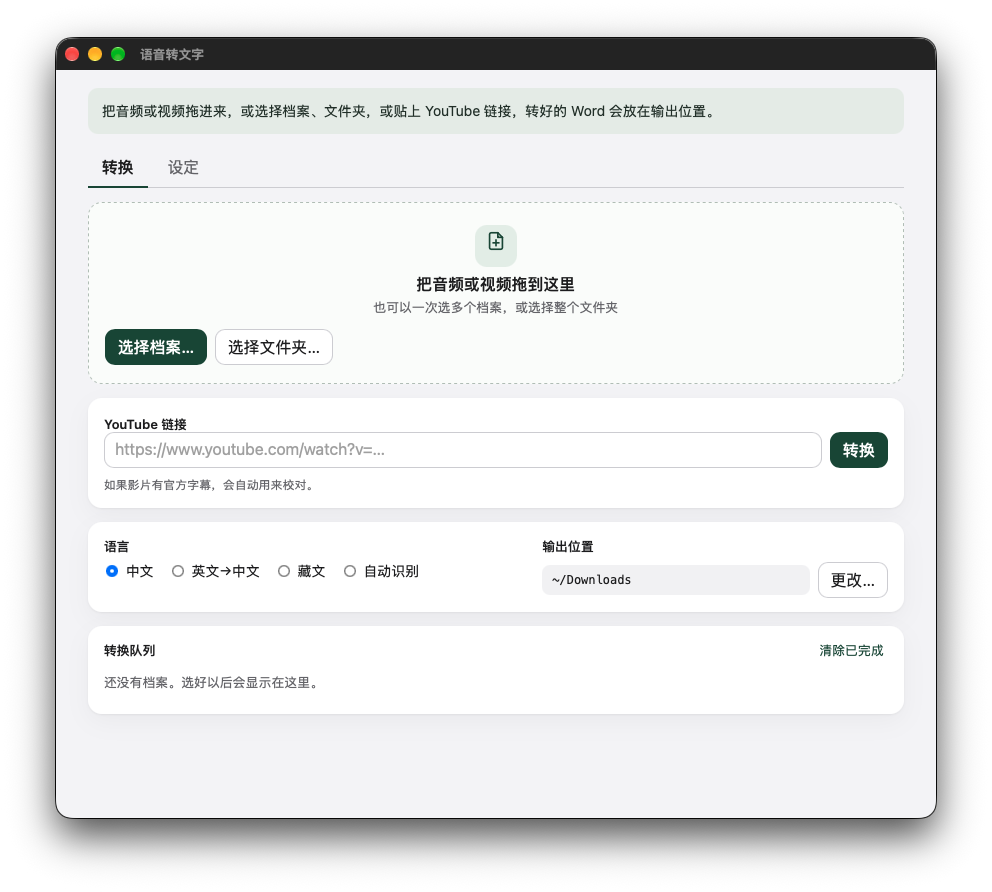
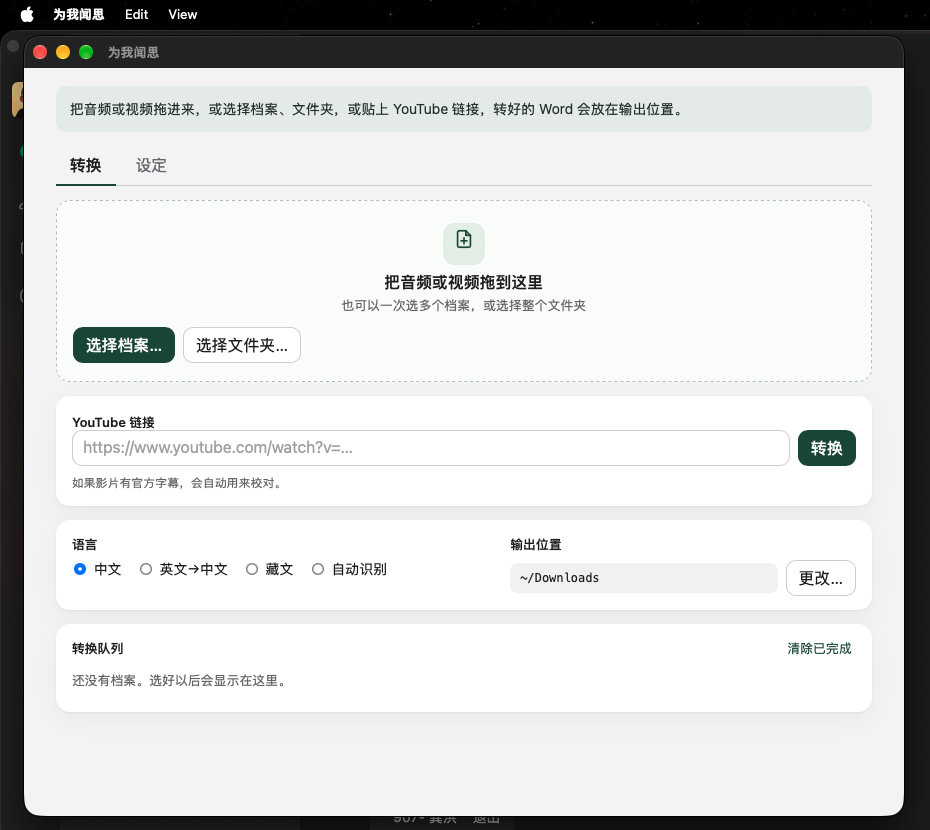
Rename the Mac app to 为我闻思 and fix the Python menu bar name
The app bundle, window title, and menu bar now use 为我闻思
(Wei Wo Wen Si). A small native launcher hosts the GUI so macOS
no longer shows Python. The GitHub repository remains speech2docx.
Desktop drop folders keep the name 语音转文字.

diff --git a/ui/index.html b/ui/index.html
@@ -3,7 +3,7 @@
 <head>
   <meta charset="utf-8" />
   <meta name="viewport" content="width=device-width, initial-scale=1" />
-  <title>语音转文字</title>
+  <title>为我闻思</title>
   <link rel="stylesheet" href="styles.css" />
 </head>
 <body>

diff --git a/src/settings.py b/src/settings.py
@@ -65,7 +65,7 @@ def _prompt_api_key(provider: str) -> Optional[str]:
     label = PROVIDER_LABELS[provider]
     script = f'''
 try
-  set r to display dialog "请输入 {label} 的 API 金钥。金钥只保存在「钥匙圈」，不会写入文件或日志。" default answer "" with hidden answer buttons {{"取消", "保存"}} default button "保存" with title "语音转文字"
+  set r to display dialog "请输入 {label} 的 API 金钥。金钥只保存在「钥匙圈」，不会写入文件或日志。" default answer "" with hidden answer buttons {{"取消", "保存"}} default button "保存" with title "为我闻思"
   if button returned of r is "保存" then return text returned of r
   return ""
 on error
@@ -97,14 +97,14 @@ def _offer_login_if_needed(provider: str) -> None:
     status = cli_login_status().get(provider) or {}
     if status.get("logged_in"):
         _osascript(f'''
-display dialog "{PROVIDER_LABELS[provider]} 已经登录，可以直接用来修饰文字。" buttons {{"好"}} default button "好" with title "语音转文字"
+display dialog "{PROVIDER_LABELS[provider]} 已经登录，可以直接用来修饰文字。" buttons {{"好"}} default button "好" with title "为我闻思"
 ''')
         return
     msg = f"{PROVIDER_LABELS[provider]} 的命令行工具尚未登录"
     if not status.get("installed"):
         msg = f"还没有安装 {PROVIDER_LABELS[provider]} 的命令行工具。可以在打开的终端里安装并登录。"
     script = f'''
-set r to display dialog "{msg}要现在打开终端，由你自己登录吗？" buttons {{"以后再说", "打开终端"}} default button "打开终端" with title "语音转文字"
+set r to display dialog "{msg}要现在打开终端，由你自己登录吗？" buttons {{"以后再说", "打开终端"}} default button "打开终端" with title "为我闻思"
 return button returned of r
 '''
     try:
@@ -157,7 +157,7 @@ def _toggle_raw_appendix() -> None:
     default_btn = "开启附录" if on else "关闭附录"
     script = (
         "set r to display dialog \"是否在 Word 文档末尾附上未修饰的原始转录（「附录：原始转录」），方便对照识别准确度？\" "
-        "buttons {\"关闭附录\", \"开启附录\"} default button \"%s\" with title \"语音转文字\"\n"
+        "buttons {\"关闭附录\", \"开启附录\"} default button \"%s\" with title \"为我闻思\"\n"
         "return button returned of r\n" % default_btn
     )
     try:
@@ -185,19 +185,19 @@ POSIX path of theFile
     from pathlib import Path
     chosen = Path(path).expanduser()
     if not chosen.is_file():
-        _osascript('display dialog "找不到所选文件。" buttons {"好"} default button "好" with title "语音转文字"')
+        _osascript('display dialog "找不到所选文件。" buttons {"好"} default button "好" with title "为我闻思"')
         return
     cfg = load_config()
     cfg["template_path"] = str(chosen)
     save_config(cfg)
-    _osascript(f'display dialog "已改用模板：{chosen.name}" buttons {{"好"}} default button "好" with title "语音转文字"')
+    _osascript(f'display dialog "已改用模板：{chosen.name}" buttons {{"好"}} default button "好" with title "为我闻思"')
 
 
 def _reset_template() -> None:
     cfg = load_config()
     cfg["template_path"] = ""
     save_config(cfg)
-    _osascript('display dialog "已恢复为内置默认版式。" buttons {"好"} default button "好" with title "语音转文字"')
+    _osascript('display dialog "已恢复为内置默认版式。" buttons {"好"} default button "好" with title "为我闻思"')
 
 
 
@@ -207,7 +207,7 @@ def _toggle_english_output() -> None:
     default_btn = "中英对照" if current == "bilingual" else "仅中文"
     script = (
         "set r to display dialog \"英文录音译成中文后，Word 要怎么排？\" "
-        "buttons {\"仅中文\", \"中英对照\"} default button \"%s\" with title \"语音转文字\"\n"
+        "buttons {\"仅中文\", \"中英对照\"} default button \"%s\" with title \"为我闻思\"\n"
         "return button returned of r\n" % default_btn
     )
     try:
@@ -227,7 +227,7 @@ def run_settings_menu() -> None:
         en_state = "中英对照" if cfg.get("english_output", "bilingual") == "bilingual" else "仅中文"
         script = f'''
 set opts to {{"查看当前设定", "选择修饰模型", "设置 API 金钥", "登录云端帐号", "编辑佛教词库", "附录：原始转录（目前：{appendix_state}）", "选择 Word 模板", "恢复默认模板", "英文输出（目前：{en_state}）", "完成"}}
-set picked to choose from list opts with prompt "语音转文字 · 设定" OK button name "确定" cancel button name "完成"
+set picked to choose from list opts with prompt "为我闻思 · 设定" OK button name "确定" cancel button name "完成"
 if picked is false then return "完成"
 return item 1 of picked
 '''

diff --git a/src/gui.py b/src/gui.py
@@ -1,5 +1,5 @@
 #!/usr/bin/env python3
-"""Desktop window for 语音转文字. Click the Dock icon to open it."""
+"""Desktop window for 为我闻思. Click the Dock icon to open it."""
 
 from __future__ import annotations
 
@@ -37,6 +37,46 @@ from transcribe import _transcribe_arg
 
 IPC_HOST = "127.0.0.1"
 IPC_PORT = 17834
+APP_NAME = "为我闻思"
+
+
+def _adopt_app_identity() -> None:
+    """Make the menu bar and process name 为我闻思, even if Cocoa started as Python."""
+    try:
+        from Foundation import NSBundle, NSProcessInfo
+
+        info = NSBundle.mainBundle().infoDictionary()
+        if info is not None:
+            info["CFBundleName"] = APP_NAME
+            info["CFBundleDisplayName"] = APP_NAME
+        NSProcessInfo.processInfo().setProcessName_(APP_NAME)
+    except Exception:
+        pass
+
+
+def _running_inside_app() -> bool:
+    parts = " ".join([sys.executable or "", *sys.argv])
+    return "为我闻思.app" in parts or "语音转文字.app" in parts
+
+
+def _apply_app_icon() -> None:
+    try:
+        from AppKit import NSApplication, NSImage
+
+        candidates = [
+            Path(sys.executable).resolve().parents[1] / "Resources" / "AppIcon.icns",
+            Path("/Applications/为我闻思.app/Contents/Resources/AppIcon.icns"),
+            Path.home() / "Applications/为我闻思.app/Contents/Resources/AppIcon.icns",
+        ]
+        for path in candidates:
+            if path.is_file():
+                img = NSImage.alloc().initWithContentsOfFile_(str(path))
+                if img:
+                    NSApplication.sharedApplication().setApplicationIconImage_(img)
+                    return
+    except Exception:
+        pass
+
 
 LANG_LABELS = {
     "zh": "中文",
@@ -504,14 +544,13 @@ end tell
 
 
 def _hide_extra_dock_icon() -> None:
-    """Keep the official .app icon in the Dock; hide a second Python icon."""
+    """If we are not running from the official .app, hide a second Python Dock icon."""
     try:
         from AppKit import NSApplication, NSApplicationActivationPolicyAccessory
 
-        app = NSApplication.sharedApplication()
-        exe = sys.argv[0] if sys.argv else ""
-        if "语音转文字.app" in exe:
+        if _running_inside_app():
             return
+        app = NSApplication.sharedApplication()
         app.setActivationPolicy_(NSApplicationActivationPolicyAccessory)
     except Exception:
         pass
@@ -661,6 +700,7 @@ def main(argv: Optional[list[str]] = None) -> int:
             items.append({"kind": "url", "source": url, "name": "YouTube 视频"})
         STATE.add_jobs(items)
 
+    _adopt_app_identity()
     import webview
 
     api = JsApi()
@@ -668,7 +708,7 @@ def main(argv: Optional[list[str]] = None) -> int:
     if not index.is_file():
         raise SystemExit(f"找不到界面文件：{index}")
     window = webview.create_window(
-        "语音转文字",
+        APP_NAME,
         url=index.as_uri(),
         js_api=api,
         width=880,
@@ -679,6 +719,8 @@ def main(argv: Optional[list[str]] = None) -> int:
     STATE.window = window
     window.events.loaded += lambda: _bind_drop_target(window)
     def on_shown():
+        _adopt_app_identity()
+        _apply_app_icon()
         _focus_window()
         _hide_extra_dock_icon()
 

diff --git a/scripts/wensi_launcher.c b/scripts/wensi_launcher.c
@@ -1,0 +1,86 @@
+/* Native entry point so the process belongs to 为我闻思.app, not Python.app. */
+#include <Python.h>
+#include <limits.h>
+#include <stdio.h>
+#include <stdlib.h>
+#include <string.h>
+
+#ifndef PATH_MAX
+#define PATH_MAX 4096
+#endif
+
+static int add_venv_site(void) {
+    const char *home = getenv("ASR_HOME");
+    if (home == NULL || home[0] == '\0') {
+        return 0;
+    }
+    char cmd[PATH_MAX + 256];
+    int n = snprintf(
+        cmd,
+        sizeof(cmd),
+        "import site, os\n"
+        "home = os.environ.get('ASR_HOME', '')\n"
+        "path = os.path.join(home, '.venv', 'lib', 'python%d.%d', 'site-packages')\n"
+        "if os.path.isdir(path):\n"
+        "    site.addsitedir(path)\n",
+        PY_MAJOR_VERSION,
+        PY_MINOR_VERSION);
+    if (n < 0 || (size_t)n >= sizeof(cmd)) {
+        return -1;
+    }
+    return PyRun_SimpleString(cmd);
+}
+
+int main(int argc, char **argv) {
+    if (argc < 2) {
+        fprintf(stderr, "usage: %s script.py [args...]\n", argv[0]);
+        return 2;
+    }
+
+    const char *home = getenv("ASR_HOME");
+    if (home && home[0]) {
+        char venv[PATH_MAX];
+        snprintf(venv, sizeof(venv), "%s/.venv", home);
+        setenv("VIRTUAL_ENV", venv, 0);
+    }
+
+    PyStatus status;
+    PyConfig config;
+    PyConfig_InitPythonConfig(&config);
+    config.parse_argv = 0;
+    status = PyConfig_SetBytesString(&config, &config.program_name, argv[0]);
+    if (PyStatus_Exception(status)) {
+        PyConfig_Clear(&config);
+        Py_ExitStatusException(status);
+    }
+    /* sys.argv is the script and its arguments, like a normal python invocation. */
+    status = PyConfig_SetBytesArgv(&config, argc - 1, argv + 1);
+    if (PyStatus_Exception(status)) {
+        PyConfig_Clear(&config);
+        Py_ExitStatusException(status);
+    }
+
+    status = Py_InitializeFromConfig(&config);
+    PyConfig_Clear(&config);
+    if (PyStatus_Exception(status)) {
+        Py_ExitStatusException(status);
+    }
+
+    if (add_venv_site() != 0) {
+        PyErr_Print();
+        Py_Finalize();
+        return 1;
+    }
+
+    FILE *fp = fopen(argv[1], "r");
+    if (fp == NULL) {
+        fprintf(stderr, "cannot open %s\n", argv[1]);
+        Py_Finalize();
+        return 1;
+    }
+    int rc = PyRun_SimpleFileEx(fp, argv[1], 1);
+    if (Py_FinalizeEx() < 0) {
+        return 120;
+    }
+    return rc != 0;
+}

diff --git a/src/transcribe.py b/src/transcribe.py
@@ -611,7 +611,7 @@ def transcribe_file(
 
     duration = audio_duration(media_src) or media_duration(src)
     if do_notify:
-        notify("语音转文字", f"开始转写「{source_name}」（约 {int(duration//60)} 分钟）")
+        notify("为我闻思", f"开始转写「{source_name}」（约 {int(duration//60)} 分钟）")
 
     log(f"START {src.name} lang={lang} duration={duration:.1f}s")
     emit_progress(on_progress, "transcribe", 5, "开始识别…")
@@ -761,7 +761,7 @@ def transcribe_file(
     log(f"DONE {src.name} -> {docx_path.name} audio={duration:.1f}s elapsed={elapsed:.1f}s ({rtf_x:.1f}x)")
     emit_progress(on_progress, "done", 100, "完成")
     if do_notify:
-        notify("语音转文字", f"已完成「{docx_path.name}」，保存在下载文件夹")
+        notify("为我闻思", f"已完成「{docx_path.name}」，保存在下载文件夹")
     if open_docx:
         subprocess.run(["/usr/bin/open", str(docx_path)], check=False)
     return {

diff --git a/README.md b/README.md
@@ -1,10 +1,12 @@
-# 语音转文字 / Speech2Docx
+# 为我闻思（Wei Wo Wen Si） / speech2docx
 
 本地语音转文字工具（macOS，Apple Silicon）。把 MP3 / M4A / WAV 等音频拖到应用图标或桌面文件夹，即会在「下载」文件夹生成排好版的 Word 文档（`.docx`）。
 
 音频始终只在本机识别。可选的文字修饰可以使用本地大模型（LM Studio），或你已登录的 Claude / ChatGPT / Gemini 订阅，也可以改用 API 金钥。
 
 ---
+
+**Wei Wo Wen Si** (为我闻思; traditional 為我聞思) is published in this repository as **speech2docx**.
 
 Local speech-to-text for macOS on Apple Silicon. Drop an MP3, M4A, WAV, or a video (MP4, MOV, MKV, WEBM, …) onto the app icon or a Desktop folder and a formatted Word document appears in Downloads. Video files are converted by extracting the soundtrack first. If subtitles are embedded, sit in a sidecar file, or come from a YouTube URL, they are aligned with the ASR text for proofreading; unresolved disagreements are highlighted in yellow.
 
@@ -35,8 +37,8 @@ Audio is transcribed only on the machine. The first-run chooser preselects Local
 ## 安装 Install
 
 ```bash
-git clone <this-repo> Speech2Docx
-cd Speech2Docx
+git clone <this-repo> speech2docx
+cd speech2docx
 ./install.sh
 ```
 
@@ -44,13 +46,13 @@ cd Speech2Docx
 
 1. 在 `~/ASR` 创建虚拟环境并安装依赖
 2. 下载两个识别模型（已缓存则跳过）
-3. 生成「语音转文字.app」，放到 `/Applications`（若无权限则放到 `~/Applications`），并加到 Dock
+3. 生成「为我闻思.app」，放到 `/Applications`（若无权限则放到 `~/Applications`），并加到 Dock
 4. 安装登录时自动启动的文件夹监视（launchd）
 5. 把 `transcribe` 链到 `~/.local/bin`
 
 ## 用法 Usage
 
-点 Dock 或「应用程序」里的「语音转文字」，就会打开应用窗口。第一次使用默认已选「本地千问」，可在窗口的「设定」页随时更改。
+点 Dock 或「应用程序」里的「为我闻思」，就会打开应用窗口。第一次使用默认已选「本地千问」，可在窗口的「设定」页随时更改。
 
 把音频或视频拖进来，或选择档案、文件夹，或贴上 YouTube 链接，转好的 Word 会放在输出位置（默认为「下载」文件夹）。
 
@@ -58,7 +60,7 @@ Click the Dock or Applications icon to open the window. You can drop files onto 
 
 ### 使用方法 How to use
 
-1. 打开「语音转文字」
+1. 打开「为我闻思」
 2. 选择语言：中文、英文→中文，或藏文
 3. 用下面任一方式加入内容：
    - 把档案拖到窗口里，或点「选择档案…」
@@ -78,11 +80,11 @@ Click the Dock or Applications icon to open the window. You can drop files onto 
 
 ### 应用图标 App icon
 
-也可以把档案直接拖到 Dock 上的「语音转文字」图标，文件会加入同一窗口的队列。
+也可以把档案直接拖到 Dock 上的「为我闻思」图标，文件会加入同一窗口的队列。
 
 ### 桌面文件夹 Drop folders
 
-`~/Desktop/语音转文字/`
+`~/Desktop/语音转文字/`（文件夹名保持不变，与应用名不同）
 
 - `中文`：用千问 ASR
 - `藏文`：用藏文 Whisper
@@ -130,7 +132,7 @@ transcribe --settings
   work/                分片缓存，可续传
   transcribe           命令行入口
 
-Speech2Docx/           本仓库
+speech2docx/           本仓库
   src/                 源代码
   scripts/             打包应用、图标
   launchd/             监视器模板

diff --git a/PRD.md b/PRD.md
@@ -1,8 +1,8 @@
 # 产品需求文档 Product Requirements Document
 
-**产品名称：** 语音转文字 / Speech2Docx  
+**产品名称：** 为我闻思（Wei Wo Wen Si） / speech2docx  
 **平台：** macOS（Apple Silicon）  
-**版本：** 1.0  
+**版本：** 0.4.0  
 **许可：** MIT
 
 ## 1. 背景与目标
@@ -62,7 +62,7 @@ Success looks like: a user drops a two-hour lecture on the app icon and later fi
 
 ### 3.4 应用与设定
 
-- `语音转文字.app` 打开一个本地窗口：可选择档案或文件夹、把文件拖进窗口或 Dock 图标、或贴上 YouTube 链接；队列显示进度，完成后可打开文档或在 Finder 中显示
+- `为我闻思.app` 打开一个本地窗口：可选择档案或文件夹、把文件拖进窗口或 Dock 图标、或贴上 YouTube 链接；队列显示进度，完成后可打开文档或在 Finder 中显示
 - 系统通知：开始、结束
 - 第一次使用预选本地千问，不弹出选择框；设定都在窗口的「设定」页
 - 设定项：选择模型、登录、填写金钥、编辑佛教词库、开关「附录：原始转录」（默认开）、选择或恢复 Word 模板、英文输出（中英对照 / 仅中文）、更改输出位置
